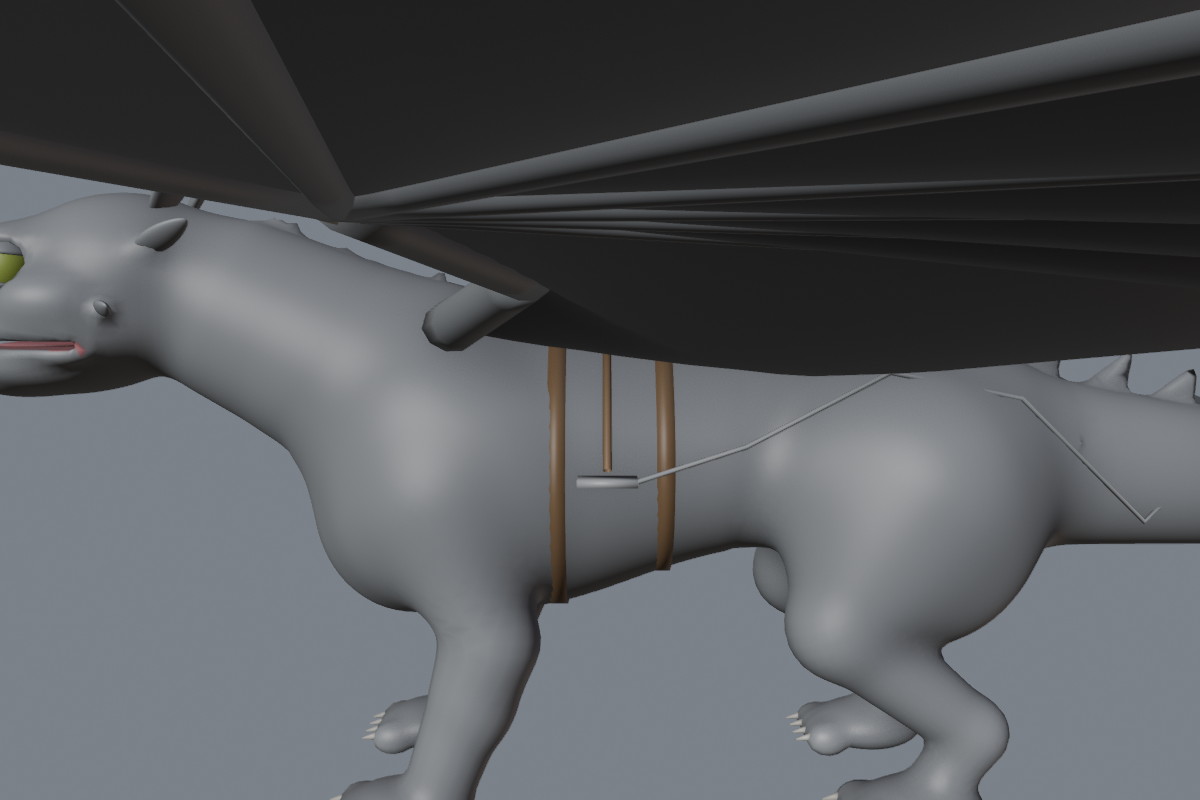
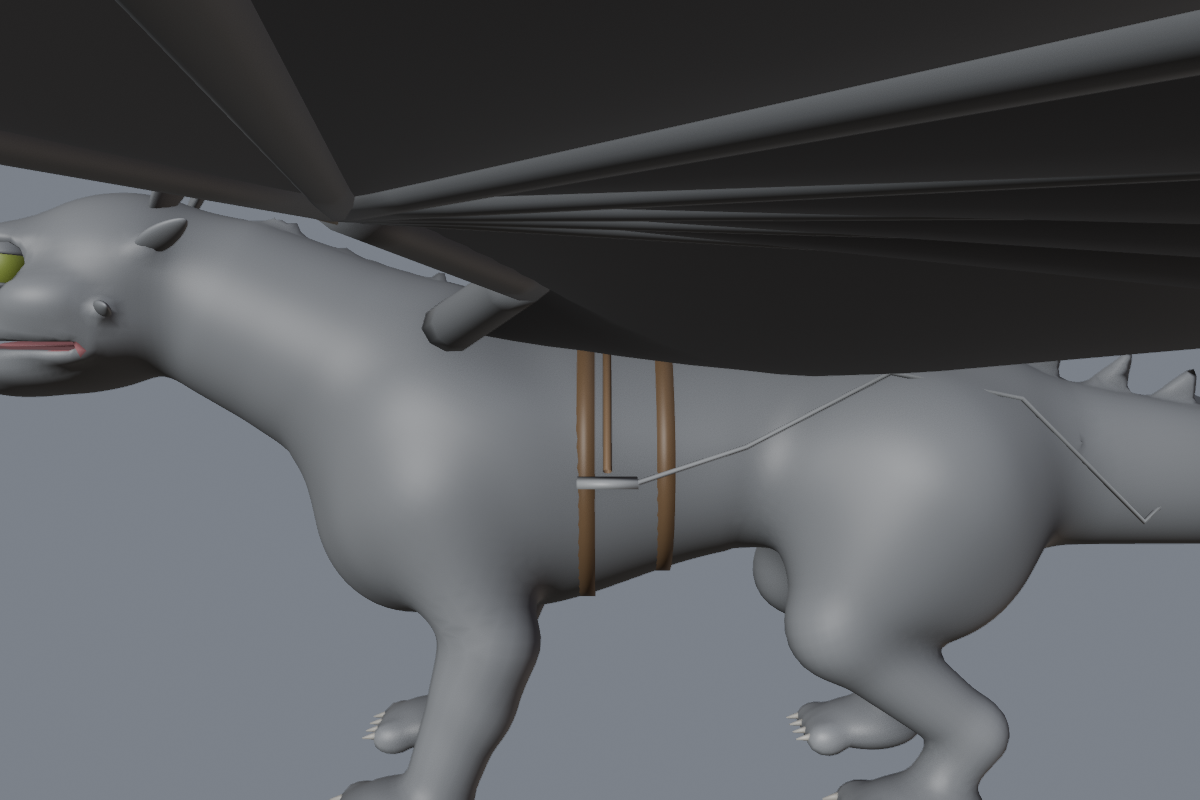
fix(toothless): clear the shoulder mass with the girth, fix tail_weight's joint jump
Review round 1 found two real defects and one minor:

- GirthFront (y=-0.42) sat forward of the sculpted shoulder/leg mass,
  which bulks the torso back to y ~= -0.40 (the elbow bone at y=-0.60
  is a joint deep inside the leg, not the visible surface bulge, and
  was the wrong landmark for this check). Moved it to y=-0.34, at
  least 2 cm behind the mass, and resolved the pedal/stirrup tangle
  that y=-0.42 had incidentally avoided by giving the pedal more
  outward clearance (+0.06 -> +0.075) instead. A stirrup strap passing
  near/over the girth is normal tack and no longer intersects it.

- tail_weight() jumped ~0.5 in weight at the pelvis -> tail_01 joint
  (y = TAIL_PTS[0].y): below it an early return gave pure pelvis
  weight all the way to the joint, while just above it the hand-over
  loop already started at 50/50. Added a matching blend-in below the
  joint over the same outer-30%-of-a-segment span used everywhere else
  in this function, so both sides meet at the same value.
  test_tail_weight_is_continuous_and_normalised now starts at y=0.6 to
  cover this joint (was 0.9, entirely past it).

- The hip-wing cable detour's ray-miss RuntimeError now reports the
  attempted (y, z), matching its sibling checks.

Verified against the real sculpted body (not just the unit tests'
stand-in ellipsoid): girth-to-shoulder-mass clearance went from 0.0 m
(contact) to 3.6 cm; girth-to-pedal, stirrup-to-girth and pedal-to-
[…]

Changed region(s): [[0.4317, 0.4375, 0.5242, 0.75]]

diff --git a/pipeline/blender/toothless/tack.py b/pipeline/blender/toothless/tack.py
@@ -68,10 +68,20 @@ def spine_weight(y):
 
 
 def tail_weight(y):
-    """Tail bone i spans TAIL_PTS[i-1] -> TAIL_PTS[i]; weights hand over across each joint (outer 30 % of each side)."""
+    """Tail bone i spans TAIL_PTS[i-1] -> TAIL_PTS[i]; weights hand over across each joint (outer 30 % of each side).
+
+    The pelvis -> tail_01 joint (y = ys[0]) needs its own blend-in from below: the loop's own hand-over already
+    gives it 50/50 pelvis/tail_01 right at ys[0] (t=0 hits the t < 0.3 branch with k=0.5), so this branch ramps
+    pelvis's weight down to match that over the same outer-30%-of-a-segment span, instead of holding pelvis at
+    1.0 all the way up to the joint and then jumping.
+    """
     ys = [float(p[1]) for p in A.TAIL_PTS]
-    if y <= ys[0]:
+    L0 = ys[1] - ys[0]
+    if y <= ys[0] - 0.3 * L0:
         return {"pelvis": 1.0}
+    if y <= ys[0]:
+        k = (y - (ys[0] - 0.3 * L0)) / (0.6 * L0)
+        return {"pelvis": 1 - k, "tail_01": k}
     for i in range(len(ys) - 1):
         if y <= ys[i + 1]:
             t = (y - ys[i]) / (ys[i + 1] - ys[i])
@@ -171,17 +181,21 @@ def girth(rig, bvh, name, y, M):
 def build_all(rig, body, M):
     bvh = _bvh(body)
     objs = saddle(rig, M, bvh)
-    # GirthFront sits well forward of the pedal/stirrup (both at y = PEDAL_L.y = -0.28) so the strap and the
-    # pedal plate read as two distinct pieces of tack instead of tangling together.
-    objs += [girth(rig, bvh, "GirthFront", -0.42, M), girth(rig, bvh, "GirthRear", -0.12, M)]
+    # GirthFront sits behind the front-leg/shoulder mass, which (per the real sculpted body, not the bone joints
+    # deep inside it) bulks out the torso back to y ~= -0.40; the whole 5 cm band stays >= 2 cm behind that.
+    # It's no longer separated from the pedal/stirrup (both at y = PEDAL_L.y = -0.28) by y alone -- that's
+    # resolved below by giving the pedal more outward clearance; a stirrup strap passing near/over the girth is
+    # normal tack, as long as nothing intersects (checked below).
+    objs += [girth(rig, bvh, "GirthFront", -0.34, M), girth(rig, bvh, "GirthRear", -0.12, M)]
 
-    # pedal plate 6 cm outside the left flank at the pedal pivot (clears the plate's own 4.5 cm half-width so it
-    # hangs clean of the flank instead of embedding in it); stirrup strap from the saddle's left edge down to it
+    # pedal plate 7.5 cm outside the left flank at the pedal pivot (clears the plate's own 4.5 cm half-width, and
+    # the girth band's radial thickness at the flank -- surface + 6 mm ray offset + 8 mm solidify -- so the two
+    # don't tangle even though they're no longer far apart in y); stirrup strap from the saddle's edge down to it
     py, pz = float(A.PEDAL_L[1]), float(A.PEDAL_L[2])
     side, _, _, _ = bvh.ray_cast(Vector((1.5, py, pz)), Vector((-1, 0, 0)))
     if side is None:
         raise RuntimeError("pedal ray missed the flank")
-    plate = Vector((side.x + 0.06, py, pz))
+    plate = Vector((side.x + 0.075, py, pz))
     bm = bmesh.new()
     bmesh.ops.create_cube(bm, size=1.0)
     for v in bm.verts:
@@ -208,9 +222,10 @@ def build_all(rig, body, M):
     # extends toward the tail from its hub (every rib angle is 0-90 deg), so dropping onto the flank surface
     # short of the hub's y and well below its z clears the fan before the path rises back up to the tail points.
     hw_hub = A.HIP_WING_L["hub"]
-    detour, dn, _, _ = bvh.ray_cast(Vector((1.5, 1.25, float(hw_hub[2]) - 0.25)), Vector((-1, 0, 0)))
+    detour_y, detour_z = 1.25, float(hw_hub[2]) - 0.25
+    detour, dn, _, _ = bvh.ray_cast(Vector((1.5, detour_y, detour_z)), Vector((-1, 0, 0)))
     if detour is None:
-        raise RuntimeError("cable ray missed the flank at the hip-wing detour")
+        raise RuntimeError(f"cable ray missed the flank at the hip-wing detour y={detour_y}, z={detour_z}")
     path.append(detour + dn * 0.02)
     diag = Vector((1.0, 0.0, 1.0)).normalized()
     for p, r in zip(A.TAIL_PTS[2:10], A.TAIL_RADII[2:10]):

diff --git a/pipeline/blender/tests/test_tack.py b/pipeline/blender/tests/test_tack.py
@@ -39,7 +39,7 @@ class TackTests(unittest.TestCase):
         self.assertLess(worst, 0.05)
 
     def test_tail_weight_is_continuous_and_normalised(self):
-        ys = [0.9 + i * 0.002 for i in range(2000)]
+        ys = [0.6 + i * 0.002 for i in range(2000)]
         for a, b in zip(ys, ys[1:]):
             wa, wb = T.tail_weight(a), T.tail_weight(b)
             self.assertAlmostEqual(sum(wa.values()), 1.0, places=9)
